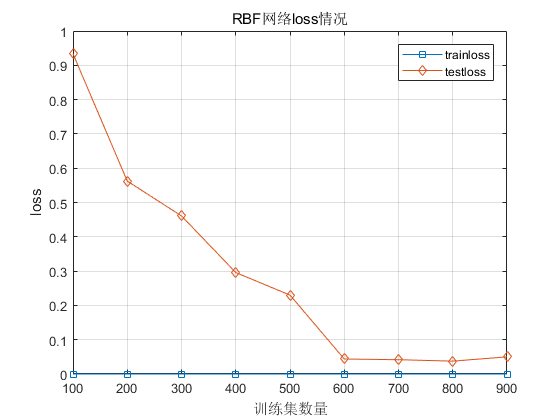
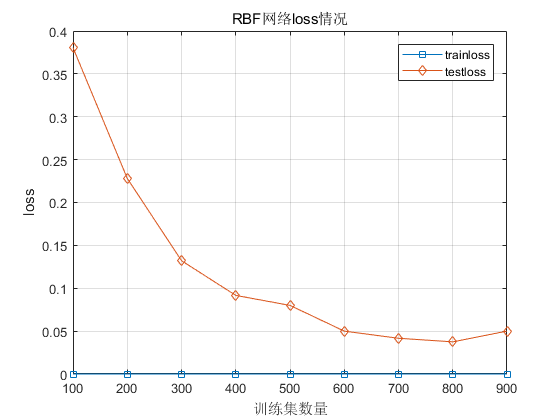
update

diff --git a/PCA/classifyrbftoolbox.m b/PCA/classifyrbftoolbox.m
@@ -13,7 +13,7 @@ Trainingerror=[1:9];
 Testingerror =[1:9];
 trainnum = [100:100:900];
 for i = 1:9
-Yp = Y{i};
+Yp = Y{10};
 %TrainingIndex = [1:2:400];
 TrainingIndex = Index(:,1:i);
 TrainingIndex = reshape(TrainingIndex,1,[]);

diff --git a/二、PCA+分类.md b/二、PCA+分类.md
@@ -31,7 +31,7 @@ $$
 
 #### 1.4 结果展示
 
-仿真结果主要以数据形式进行，由于分类结果会以序号的形式输出，因此在这里只会展示少部分分类出错的情形。
+仿真结果主要以数据形式进行，由于分类结果会以序号的形式输出。
 
 ### 2. 分类方法
 
@@ -91,7 +91,7 @@ $\theta_j$ 为模型的参数。上面的概率分布是归一化的，所有
 
 ##### 2.1.2 分类结果
 
-1. PCA主元数的影响
+1. PCA主元数的影响：
 
    这里，训练集与测试集各一半，即用200张训练，200张测试。分类结果如下表：
 
@@ -112,30 +112,212 @@ $\theta_j$ 为模型的参数。上面的概率分布是归一化的，所有
    | 150    | 193          | 193         |
    | 200    | 191          | 190         |
    | 500    | 192          | 198         |
+   ![BPpca主元](E:\17年学习\神经网络\神经网络作业二\NN_second_homework\PCA\BPpca主元.png)
+
    可以看到，当PCA主元数取60以上的时候loss突然变高，这应该是由于随着PCA的主元数增加，网络对于输入样本来说太浅了，学习能力跟不上，因此产生了欠拟合。加深网络应该可以得到更好的效果。但是对于PCA主元少的时候，过深的网络会出现过拟合问题，所以实际上，网络深度要跟据当前的主元数进行设计。
 
    比如将网络结构改为下面的结构时：
 
    | 层数   | 网络类型    | 神经元数量 |
    | ---- | ------- | ----- |
-   | 第一层  | purelin | 70    |
-   | 第二层  | tansig  | 20    |
+   | 第一层  | purelin | 90    |
+   | 第二层  | tansig  | 50    |
    | 第三层  | tansig  | 40    |
    | 输出层  | softmax | -     |
 
-   
+   trainingloss为10，testingloss为95。当然此时还存在有过拟合，但是此时已经比
 
 2. 高斯白噪声的影响
 
+   这里，训练集与测试集各一半，即用200张训练，200张测试，PCA主元取50个。分类结果如下表：
+
+   | 高斯白噪声(SNR) | Trainingloss | Testingloss |
+   | ---------- | ------------ | ----------- |
+   | 2          | 197          | 193         |
+   | 5          | 197          | 196         |
+   | 7          | 199          | 196         |
+   | 10         | 186          | 190         |
+   | 15         | 116          | 130         |
+   | 20         | 76           | 108         |
+   | 25         | 0            | 13          |
+   | 30         | 20           | 36          |
+   | 40         | 18           | 35          |
+   | 50         | 0            | 14          |
+   | 60         | 0            | 14          |
+   | 80         | 0            | 14          |
+
+   ![BPLOSSSNR](E:\17年学习\神经网络\神经网络作业二\NN_second_homework\PCA\BPLOSSSNR.png)
+
 3. 训练集数量的影响
 
-   
+   这里依旧取50个主元，无高斯白噪声。
+
+   | 训练集数量 | Traininglossrate | Testinglossrate |
+   | ----- | ---------------- | --------------- |
+   | 100   | 0                | 0.9333          |
+   | 200   | 0                | 0.5625          |
+   | 300   | 0                | 0.4607          |
+   | 400   | 0                | 0.2958          |
+   | 500   | 0                | 0.2300          |
+   | 600   | 0                | 0.0438          |
+   | 700   | 0                | 0.0417          |
+   | 800   | 0                | 0.0375          |
+   | 900   | 0                | 0.0500          |
+
 
 
 #### 2.2 RBF网络分类
 
 RBF网络的基础知识在上一次已经提到过了，在此就不再赘述了。在这里，使用matlab的神经网络工具箱进行仿真。Label与BP一样采用Onehot编码。
 
-##### 2.2.1 网络参数设计：
+##### 2.2.1 网络参数设置：
 
-当
+RBF分类网络使用newbfe函数进行设计，要对newbfe的扩散系数进行设置，如用默认的1，则分类准确率低于5%。
+
+取PCA50个主元，训练集和测试集各用一半进行测试扩散系数对结果的影响，发现取扩散系数为8时，loss最低：
+
+![RBF分类扩散系数影响](E:\17年学习\神经网络\神经网络作业二\NN_second_homework\PCA\RBF分类扩散系数影响.png)
+
+取PCA500个主元，训练集和测试集各用一半进行测试扩散系数对结果的影响，发现取扩散系数为17时，loss最低：
+
+![RBF分类扩散系数影响1](E:\17年学习\神经网络\神经网络作业二\NN_second_homework\PCA\RBF分类扩散系数影响1.png)
+
+取PCA20个主元，训练集和测试集各用一半进行测试扩散系数对结果的影响，发现取扩散系数为9时，loss最低：
+
+![RBF分类扩散系数影响2](E:\17年学习\神经网络\神经网络作业二\NN_second_homework\PCA\RBF分类扩散系数影响2.png)
+
+
+
+所以，综合上述测试，下面测试全部取扩散系数为12。
+
+##### 2.2.2 分类结果 
+
+1. PCA主元数的影响：
+
+   这里，训练集与测试集各一半，即用200张训练，200张测试。分类结果如下表：
+
+   | PCA主元数 | Trainingloss | Testingloss |
+   | ------ | ------------ | ----------- |
+   | 2      | 70           | 126         |
+   | 5      | 0            | 97          |
+   | 7      | 0            | 107         |
+   | 10     | 0            | 43          |
+   | 15     | 0            | 13          |
+   | 20     | 0            | 15          |
+   | 25     | 0            | 10          |
+   | 30     | 0            | 9           |
+   | 40     | 0            | 8           |
+   | 50     | 0            | 9           |
+   | 60     | 0            | 9           |
+   | 80     | 0            | 7           |
+   | 150    | 0            | 7           |
+   | 200    | 0            | 7           |
+   | 500    | 0            | 7           |
+
+   ![RBF分类pca主元](E:\17年学习\神经网络\神经网络作业二\NN_second_homework\PCA\RBF分类pca主元.png)
+
+   
+
+2. 高斯白噪声的影响：
+
+   | 高斯白噪声(SNR) | Trainingloss | Testingloss |
+   | ---------- | ------------ | ----------- |
+   | 2          | 0            | 195         |
+   | 5          | 0            | 192         |
+   | 7          | 0            | 124         |
+   | 10         | 0            | 21          |
+   | 15         | 0            | 8           |
+   | 20         | 0            | 9           |
+   | 25         | 0            | 9           |
+   | 30         | 0            | 9           |
+   | 40         | 0            | 9           |
+   | 50         | 0            | 9           |
+   | 60         | 0            | 9           |
+   | 80         | 0            | 9           |
+
+   ![RBF分类白噪声](E:\17年学习\神经网络\神经网络作业二\NN_second_homework\PCA\RBF分类白噪声.png)
+
+3. 训练集数量的影响：
+
+   | 训练集数量 | Traininglossrate | Testinglossrate |
+   | ----- | ---------------- | --------------- |
+   | 100   | 0                | 0.3806          |
+   | 200   | 0                | 0.2281          |
+   | 300   | 0                | 0.1321          |
+   | 400   | 0                | 0.0917          |
+   | 500   | 0                | 0.0800          |
+   | 600   | 0                | 0.0500          |
+   | 700   | 0                | 0.0417          |
+   | 800   | 0                | 0.0375          |
+   | 900   | 0                | 0.0500          |
+
+   ![RBF分类训练集数量](E:\17年学习\神经网络\神经网络作业二\NN_second_homework\PCA\RBF分类训练集数量.png)
+
+   
+
+
+#### 2.3 SVM分类
+##### 2.2.1 网络参数设置：
+
+
+
+##### 2.2.2 分类结果 
+
+由于这里使用的是高斯核函数，分类时总是可以达到对训练集的完美分类，因此，这里不列出trainingloss。
+
+1. PCA主元数的影响：
+
+   这里，训练集与测试集各一半，即用200张训练，200张测试。分类结果如下表：
+
+   | PCA主元数 | Testingloss |
+   | ------ | ----------- |
+   | 2      | 126         |
+   | 5      | 97          |
+   | 7      | 107         |
+   | 10     | 43          |
+   | 15     | 13          |
+   | 20     | 15          |
+   | 25     | 10          |
+   | 30     | 9           |
+   | 40     | 8           |
+   | 50     | 9           |
+   | 60     | 9           |
+   | 80     | 7           |
+   | 150    | 7           |
+   | 200    | 7           |
+   | 500    | 7           |
+
+2. 高斯白噪声的影响：
+
+   | PCA主元数 | Testingloss |
+   | ------ | ----------- |
+   | 2      | 156         |
+   | 5      | 127         |
+   | 7      | 71          |
+   | 10     | 54          |
+   | 15     | 27          |
+   | 20     | 13          |
+   | 25     | 12          |
+   | 30     | 12          |
+   | 40     | 11          |
+   | 50     | 11          |
+   | 60     | 11          |
+   | 80     | 11          |
+
+   ![SVMpcaSNR](E:\17年学习\神经网络\神经网络作业二\NN_second_homework\PCA\SVMpcaSNR.png)
+
+3. 训练集数量的影响：
+
+   | 训练集数 | Testinglossrate |
+   | ---- | --------------- |
+   | 100  | 0.2750          |
+   | 200  | 0.3500          |
+   | 300  | 0.3536          |
+   | 400  | 0.2625          |
+   | 500  | 0.2300          |
+   | 600  | 0.1500          |
+   | 700  | 0.1083          |
+   | 800  | 0.0875          |
+   | 900  | 0.0500          |
+
+   ![SVMpca训练集](E:\17年学习\神经网络\神经网络作业二\NN_second_homework\PCA\SVMpca训练集.png)
